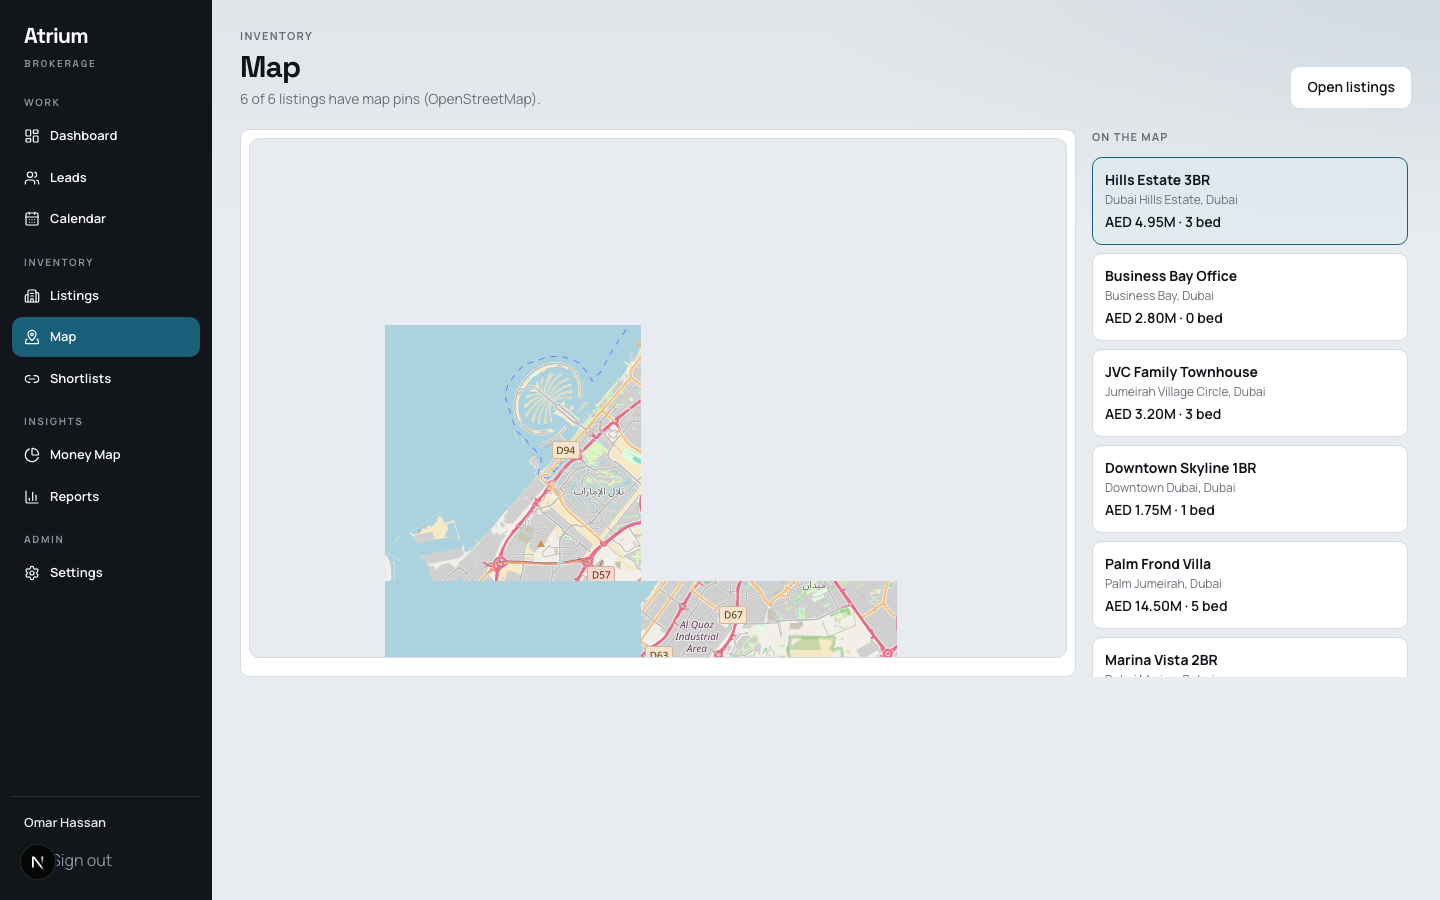
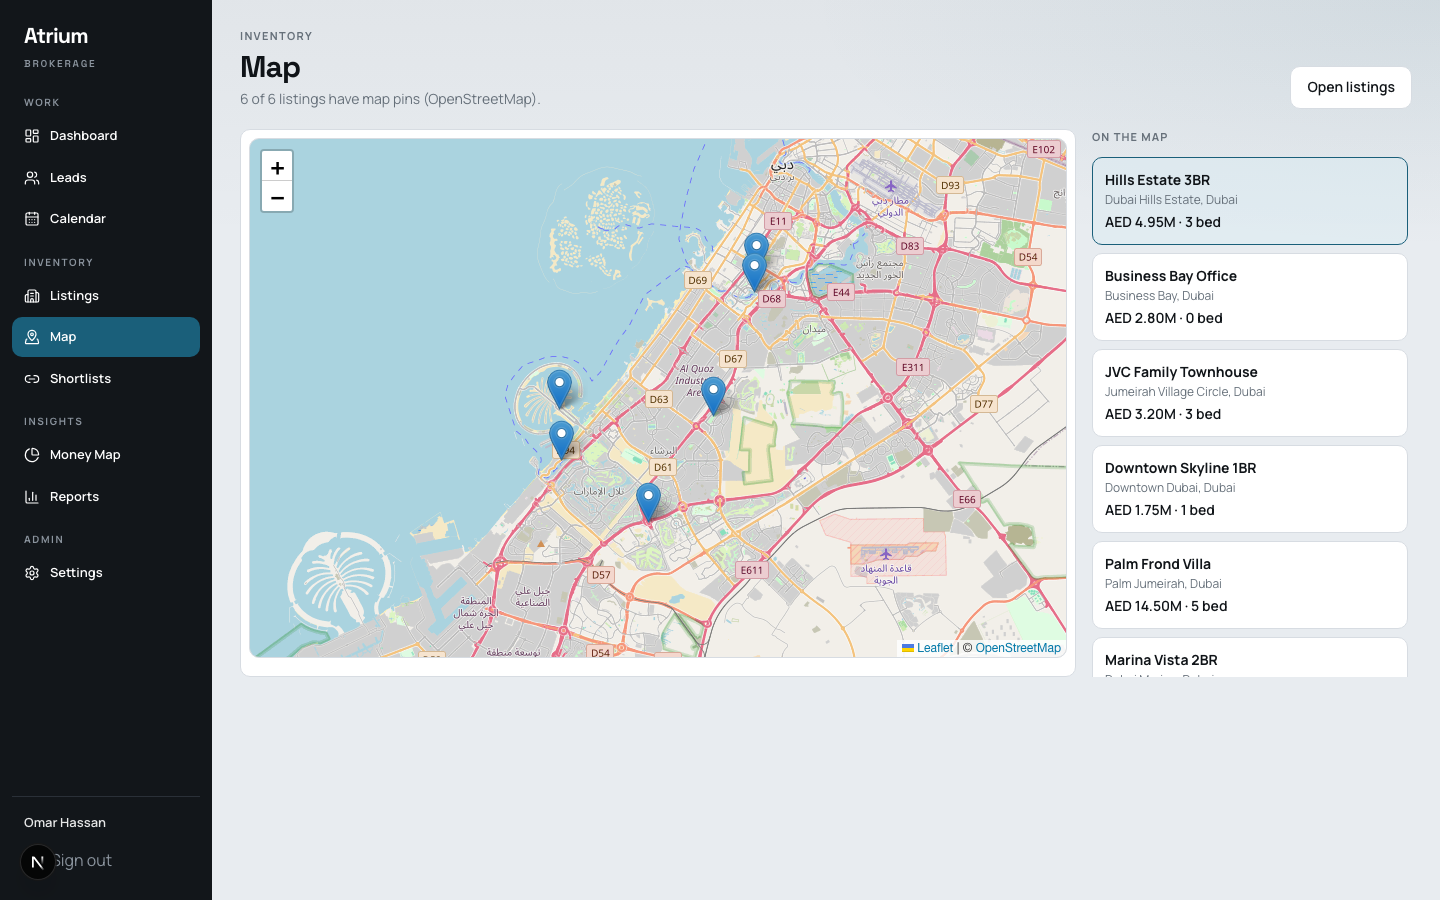
Fix Leaflet tiles under Tailwind and refresh map screenshots.

Changed region(s): [[0.1562, 0.1556, 0.75, 0.7467], [0.375, 0.4044, 0.4062, 0.5289]]

diff --git a/web/src/components/ListingMap.tsx b/web/src/components/ListingMap.tsx
@@ -2,6 +2,13 @@
 
 import { useEffect, useRef } from "react";
 
+// Stable empty deps helper for optional callbacks
+function useStableCallback<T extends (...args: never[]) => void>(fn?: T) {
+  const ref = useRef(fn);
+  ref.current = fn;
+  return ref;
+}
+
 type Props = {
   lat: number;
   lng: number;
@@ -98,10 +105,13 @@ export function InventoryMap({
   onSelect?: (id: string) => void;
 }) {
   const ref = useRef<HTMLDivElement>(null);
+  const onSelectRef = useStableCallback(onSelect);
+  const pinKey = pins.map((p) => `${p.id}:${p.lat}:${p.lng}`).join("|");
 
   useEffect(() => {
     let map: import("leaflet").Map | null = null;
     let cancelled = false;
+    let ro: ResizeObserver | null = null;
 
     async function mount() {
       const L = await import("leaflet");
@@ -117,6 +127,10 @@ export function InventoryMap({
       });
 
       ref.current.innerHTML = "";
+      // Leaflet needs an explicit sized container
+      ref.current.style.height = `${height}px`;
+      ref.current.style.width = "100%";
+
       map = L.map(ref.current, {
         scrollWheelZoom: true,
         zoomControl: true,
@@ -144,39 +158,48 @@ export function InventoryMap({
               : ""
           }`;
           marker.bindPopup(html);
-          if (onSelect) {
-            marker.on("click", () => onSelect(pin.id));
-          }
+          marker.on("click", () => onSelectRef.current?.(pin.id));
         }
-        map.fitBounds(bounds!.pad(0.25));
+        map.fitBounds(bounds!.pad(0.2), { maxZoom: 13 });
       }
 
       const refresh = () => {
         if (!map) return;
-        map.invalidateSize();
-        if (bounds && pins.length) map.fitBounds(bounds.pad(0.25));
+        map.invalidateSize({ animate: false });
+        if (bounds && pins.length) {
+          map.fitBounds(bounds.pad(0.2), { maxZoom: 13, animate: false });
+        }
       };
       requestAnimationFrame(refresh);
-      setTimeout(refresh, 120);
-      setTimeout(refresh, 400);
+      setTimeout(refresh, 50);
+      setTimeout(refresh, 250);
+      setTimeout(refresh, 600);
+
+      if (ref.current && typeof ResizeObserver !== "undefined") {
+        ro = new ResizeObserver(() => refresh());
+        ro.observe(ref.current);
+      }
     }
 
     mount();
 
     return () => {
       cancelled = true;
+      ro?.disconnect();
       if (map) {
         map.remove();
         map = null;
       }
     };
-  }, [pins, onSelect]);
+    // pinKey captures pin identity; height for container
+    // eslint-disable-next-line react-hooks/exhaustive-deps
+  }, [pinKey, height]);
 
   return (
     <div
       ref={ref}
-      className={`overflow-hidden rounded-[10px] border border-line bg-[#e8ecf0] ${className}`}
-      style={{ height }}
+      className={`w-full overflow-hidden rounded-[10px] border border-line bg-[#e8ecf0] ${className}`}
+      style={{ height, minHeight: height }}
     />
   );
 }

diff --git a/web/src/app/globals.css b/web/src/app/globals.css
@@ -1,6 +1,15 @@
 @import "tailwindcss";
 @import "leaflet/dist/leaflet.css";
 
+/* Tailwind preflight sets img { max-width: 100% } which breaks Leaflet tiles */
+.leaflet-container img {
+  max-width: none !important;
+}
+.leaflet-container {
+  width: 100%;
+  z-index: 0;
+}
+
 :root {
   --ink: #101418;
   --muted: #66707a;
